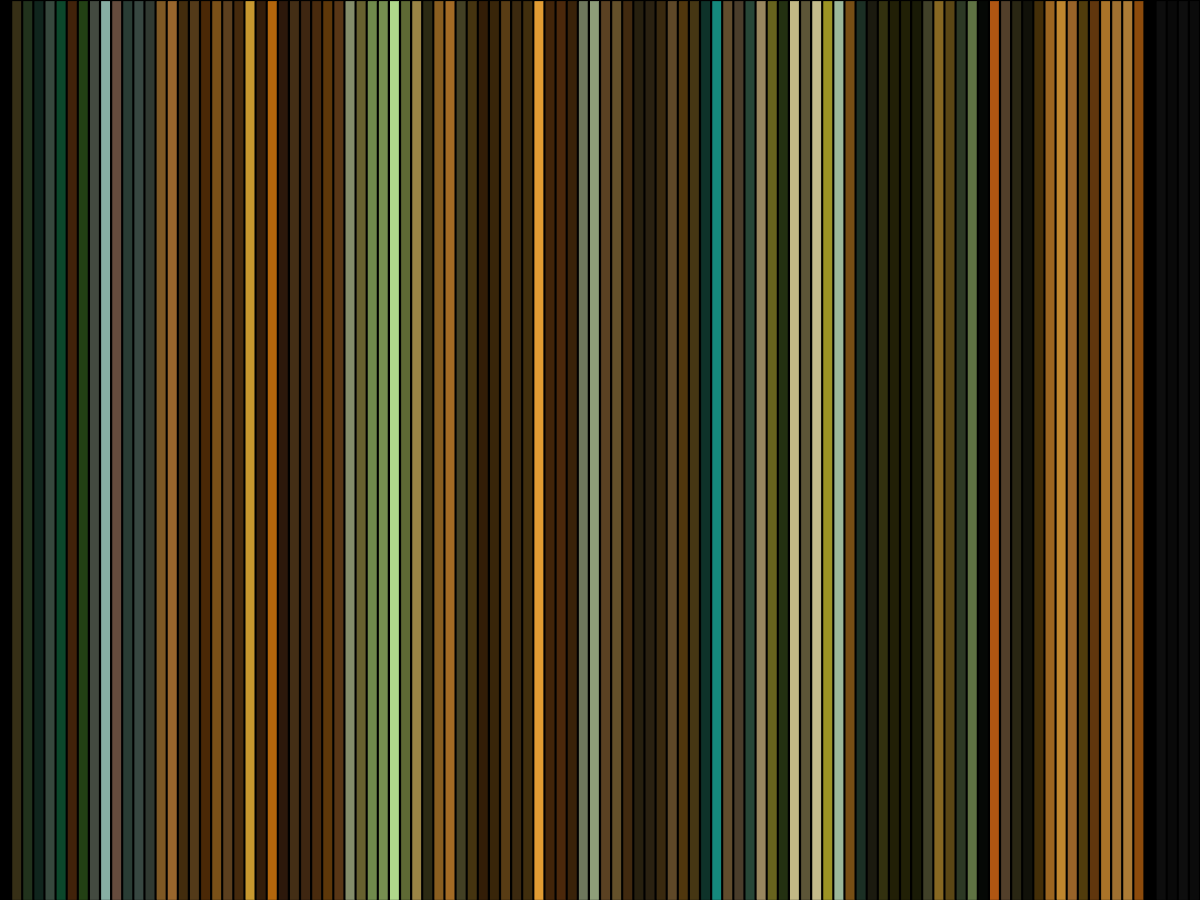
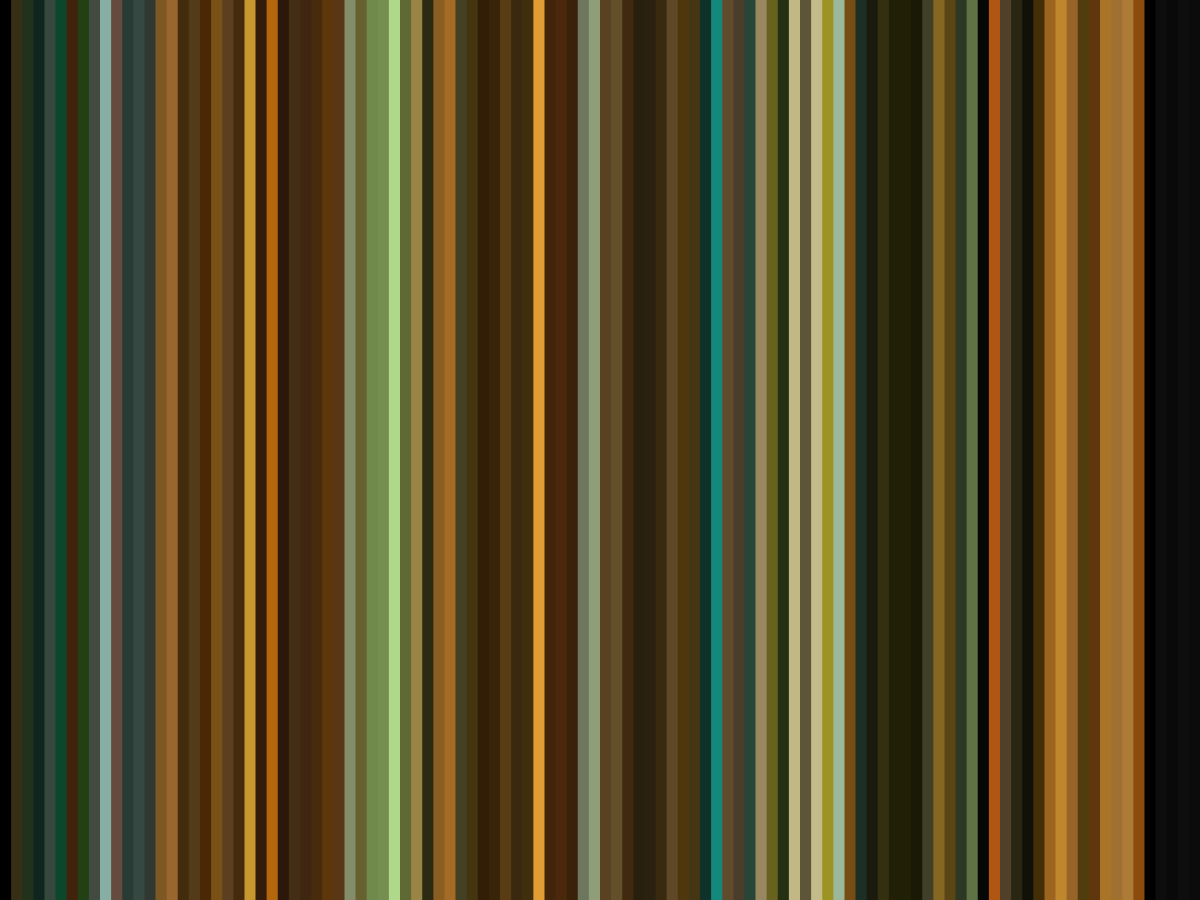
Updated averaging Matlab script to output feature vectors in a txt file

Changed region(s): [[0.0, 0.0, 0.9558, 1.0]]

diff --git a/averageFramesBatch.m b/averageFramesBatch.m
@@ -1,0 +1,29 @@
+% averagingFramesBatch.m - Script to find the average color for each 
+%                          extracted frame in the movie.
+% CS229 Final Project
+% Ethan Chan, Rajashi Roy, John Lee
+% {ethancys,rroy,johnwlee}@stanford.edu
+% Created: November 7th 2015
+
+D = dir();
+for i = 1:length(D)
+    if D(i).isdir && ~strcmpi(D(i).name(1), '.')
+        movName = D(i).name;
+        movFol = dir(movName);
+        numFrame = length(movFol(not([movFol.isdir])));
+        cd(movName);
+        featVect = zeros(3, numFrame);
+        for j = 1:numFrame
+            img = imread(sprintf('img%03d.jpg', j));
+            avg = squeeze(mean(mean(img)));
+            featVect(:,j) = avg;
+            patch([j-1 j-1 j j], [-1 1 1 -1], 'r', 'facecolor', ...
+                min(2*(avg'./(2^8)), 1), 'edgecolor', 'none');
+        end
+        axis([0,numFrame,-1,1]);
+        set(gca,'position',[0 0 1 1],'units','normalized')
+        cd('..');
+        dlmwrite([movName, '.txt'],featVect', ' ');
+        print('-dpng', [movName, '.png']);
+    end
+end

diff --git a/averageFrames.m b/averageFrames.m
@@ -15,7 +15,7 @@ for i = 1:Num
     avg = squeeze(mean(mean(img)));
     featVect(:,i) = avg;
     patch([i-1 i-1 i i], [-1 1 1 -1], 'r', 'facecolor', ...
-        min(2*(avg'./(2^8)), 1));
+        min(2*(avg'./(2^8)), 1), 'edgecolor', 'none');
 end
 axis([0,Num,-1,1]);
 set(gca,'position',[0 0 1 1],'units','normalized')
